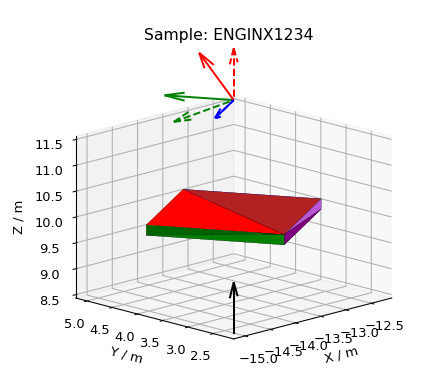
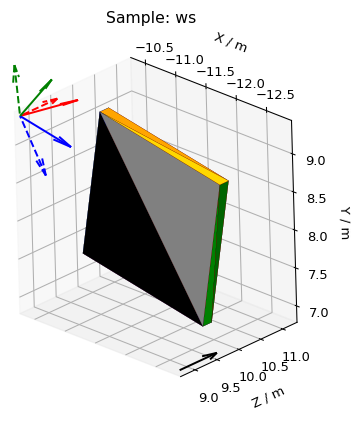
Set aspect like equal and set vertical_axis
fix SetSample::setSampleShape with environment only from algm Dialog

Changed region(s): [[0.0303, 0.0308, 0.9394, 0.9538], [0.3939, 0.8615, 0.4848, 0.9231], [0.9394, 0.4923, 0.9697, 0.5846]]

diff --git a/qt/python/mantidqt/mantidqt/plotting/sample_shape.py b/qt/python/mantidqt/mantidqt/plotting/sample_shape.py
@@ -14,6 +14,7 @@ from mpl_toolkits.mplot3d.art3d import Poly3DCollection
 from mantid.api import AnalysisDataService as ADS
 from mantidqt.plotting.sample_shape_ads_observer import SampleShapePlotADSObserver
 from workbench.plotting.globalfiguremanager import FigureAction, GlobalFigureManager
+from workbench.plotting.toolbar import ToolbarStateManager
 
 
 class SampleShapePlot:
@@ -24,6 +25,9 @@ class SampleShapePlot:
         self.workspace_name = None
         self.plot_visible = None
         self.GFM_plot_number = None
+        self.toolbar_manager = None
+        self.beam_direction = None
+        self.overall_limits = None
 
         self.Local_GlobalFigureManager = GlobalFigureManager
         # Register with CurrentFigure that we want to know of any
@@ -37,6 +41,9 @@ class SampleShapePlot:
         self.plot_visible = None
         self.GFM_plot_number = None
         self.Local_GlobalFigureManager = None
+        self.toolbar_manager = None
+        self.beam_direction = None
+        self.overall_limits = None
 
     def notify(self, action, plot_number):
         """
@@ -53,7 +60,7 @@ class SampleShapePlot:
         if action == FigureAction.VisibilityChanged:
             self.plot_visible = is_visible(plot_number)
 
-    def create_plot(self, workspace_name, figure=None):
+    def create_plot(self, workspace_name, figure=None, test=None):
         self.workspace_name = workspace_name
         workspace = ADS.retrieve(workspace_name)
         if not does_workspace_have_valid_sample_shape(workspace) and not workspace.sample().hasEnvironment():
@@ -70,7 +77,7 @@ class SampleShapePlot:
 
         add_title(sample_plotted, container_plotted, components_plotted, axes, workspace_name)
         set_axes_to_largest_mesh(axes, workspace)
-        set_perspective(axes)
+        self.beam_direction = set_perspective(axes, workspace=workspace)
         set_axes_labels(axes)
         add_beam_arrow(axes, workspace)
         if workspace.sample().hasOrientedLattice():
@@ -79,6 +86,9 @@ class SampleShapePlot:
         self.ads_observer = SampleShapePlotADSObserver(self.on_replace_workspace, self.on_rename_workspace,
                                                        self.on_clear, self.on_delete_workspace)
         self.set_and_save_figure(workspace_name, figure)
+        self.connect_to_home_toolbar_button()
+        if test:
+            return self
         return figure
 
     def set_and_save_figure(self, workspace_name, figure):
@@ -119,6 +129,18 @@ class SampleShapePlot:
         GlobalFigureManager.destroy_fig(self.figure)
         self.reset_class()
 
+    def connect_to_home_toolbar_button(self):
+        if self.figure.canvas.toolbar:
+            self.toolbar_manager = ToolbarStateManager(self.figure.canvas.toolbar)
+            self.toolbar_manager.home_button_connect(self.on_home_clicked)
+
+    def on_home_clicked(self):
+        current_axes = self.figure.gca()
+        if self.beam_direction:
+            set_perspective(current_axes, beam_direction=self.beam_direction)
+        current_axes.set_box_aspect((1, 1, 1))  # when upgraded to matplotlib 3.6 use current_axes.set_aspect('equal')
+        self.figure.canvas.draw()
+
 
 def is_visible(plot_number):
     """
@@ -145,9 +167,9 @@ def set_figure_window_title(plot_number, workspace_name):
         figure_manager.set_window_title(f"{workspace_name} Sample Shape")
 
 
-def plot_sample_container_and_components(workspace_name):
+def plot_sample_container_and_components(workspace_name, test=None):
     new_plot = SampleShapePlot()
-    return new_plot.create_plot(workspace_name)
+    return new_plot.create_plot(workspace_name, test=test)
 
 
 def try_to_plot_all_sample_shapes(workspace, figure):
@@ -287,8 +309,36 @@ def set_axes_labels(plot_axes):
     plot_axes.set_zlabel('Z / m')
 
 
-def set_perspective(plot_axes):
-    plot_axes.view_init(elev=15, azim=-135)
+def direction_not_valid(direction):
+    if not direction:
+        return True
+    if direction != "X" and direction != "Z":
+        return True
+    else:
+        return False
+
+
+def set_perspective(plot_axes, workspace=None, beam_direction=None):
+    # assume beam_direction Z (X) means pointingUp direction Y (Z)
+    if direction_not_valid(beam_direction) and not workspace:
+        # guess the original beam_direction and raise warning
+        plot_axes.view_init(vertical_axis='y', elev=30, azim=-135)
+        raise Exception("set_perspective must be called with either beam_direction or a workspace")
+
+    if direction_not_valid(beam_direction):
+        frame = workspace.getInstrument().getReferenceFrame()
+        if frame.pointingUpAxis() == "Y" and frame.pointingAlongBeamAxis() == "Z":
+            # almost all instruments have this instrument reference frame
+            beam_direction = "Z"
+        else:  # e.g. POLREF has beam along X, pointing up Z
+            beam_direction = "X"
+
+    if beam_direction == "Z":
+        plot_axes.view_init(vertical_axis='y', elev=30, azim=-135)
+    else:
+        plot_axes.view_init(vertical_axis='z', elev=30, azim=-135)
+
+    return beam_direction
 
 
 def call_set_mesh_axes_equal(axes, mesh):
@@ -299,6 +349,7 @@ def call_set_mesh_axes_equal(axes, mesh):
 def set_axes_to_largest_mesh(axes, workspace):
     overall_limits = overall_limits_for_all_meshes(workspace)
     call_set_mesh_axes_equal(axes, np.array(overall_limits))
+    axes.set_box_aspect((1, 1, 1))  # when upgraded to matplotlib 3.6 use axes.set_aspect('equal')
 
 
 def overall_limits_for_all_meshes(workspace, include_components=True):
@@ -382,7 +433,7 @@ def add_beam_arrow(plot_axes, workspace):
 def add_arrow(ax, vector, origin=None, factor=None, color='black', linestyle='-'):
     # Add arrows for Beam or Crystal lattice
     if origin is None:
-        origin = (ax.get_xlim3d()[1], ax.get_ylim3d()[1], ax.get_zlim3d()[1])
+        origin = (ax.get_xlim3d()[1], ax.get_ylim3d()[1], ax.get_zlim3d()[0])
     if factor is None:
         lims = ax.get_xlim3d()
         factor = (lims[1]-lims[0]) / 3.0

diff --git a/qt/python/mantidqt/mantidqt/plotting/test/test_sample_shape.py b/qt/python/mantidqt/mantidqt/plotting/test/test_sample_shape.py
@@ -89,6 +89,12 @@ def setup_workspace_sample_container_and_components_from_mesh():
     return workspace
 
 
+def setup_workspace_with_instrument_no_shape(instrument_name):
+    workspace = CreateWorkspace(OutputWorkspace="ws_shape", DataX=[1, 1], DataY=[2, 2])
+    LoadInstrument(Workspace=workspace, RewriteSpectraMap=True, InstrumentName=instrument_name)
+    return workspace
+
+
 class PlotSampleShapeTest(TestCase):
 
     @classmethod
@@ -283,7 +289,8 @@ class PlotSampleShapeTest(TestCase):
 
     def test_sample_and_container_invalid(self):
         workspace = CreateWorkspace(OutputWorkspace="ws_shape", DataX=[1, 1], DataY=[2, 2])
-        self.assertRaises(Exception, sample_shape.plot_sample_container_and_components, workspace.name())
+        self.assertRaisesRegex(Exception, "Workspace must have attached Sample Shape or Environment",
+                               sample_shape.plot_sample_container_and_components, workspace.name())
 
     # Sample, Container and Components
     def test_sample_container_and_components_valid(self):
@@ -386,7 +393,8 @@ class PlotSampleShapeTest(TestCase):
 
     def test_is_visible_for_invalid_plot_raises_value_error(self):
         self.set_up_global_figure_manager()
-        self.assertRaises(ValueError, sample_shape.is_visible, 0)
+        self.assertRaisesRegex(ValueError, "Error in is_visible, could not find a plot with the number",
+                               sample_shape.is_visible, 0)
 
     def test_set_window_title_valid_plot(self):
         self.set_up_global_figure_manager()
@@ -429,6 +437,44 @@ class PlotSampleShapeTest(TestCase):
         MySamplePlot = sample_shape.SampleShapePlot()
         MySamplePlot.notify(FigureAction.New, 200)
         self.assertEqual(200, MySamplePlot.GFM_plot_number)
+
+    def test_set_perspective_with_beam_direction(self):
+        mock_axes = Mock()
+        self.assertEqual("X", sample_shape.set_perspective(mock_axes, workspace=None, beam_direction="X"))
+        self.assertEqual("Z", sample_shape.set_perspective(mock_axes, workspace=None, beam_direction="Z"))
+
+    def test_set_perspective_raises_exception_with_no_workspace_or_valid_beam_direction(self):
+        mock_axes = Mock()
+        self.assertRaisesRegex(Exception, "set_perspective must be called with either beam_direction or a workspace",
+                               sample_shape.set_perspective, mock_axes, workspace=None, beam_direction=None)
+        self.assertRaisesRegex(Exception, "set_perspective must be called with either beam_direction or a workspace",
+                               sample_shape.set_perspective, mock_axes, workspace=None, beam_direction="Y")
+
+    def test_set_perspective_uses_input_beam_direction(self):
+        mock_axes = Mock()
+        workspace = setup_workspace_with_instrument_no_shape("Pearl")
+        self.assertEqual("X", sample_shape.set_perspective(mock_axes, workspace=workspace, beam_direction="X"))
+        self.assertEqual("Z", sample_shape.set_perspective(mock_axes, workspace=workspace, beam_direction="Z"))
+        workspace = setup_workspace_with_instrument_no_shape("Polref")
+        self.assertEqual("X", sample_shape.set_perspective(mock_axes, workspace=workspace, beam_direction="X"))
+        self.assertEqual("Z", sample_shape.set_perspective(mock_axes, workspace=workspace, beam_direction="Z"))
+
+    def test_set_perspective_with_workspace_and_no_valid_beam_direction(self):
+        mock_axes = Mock()
+        workspace = setup_workspace_with_instrument_no_shape("Pearl")
+        self.assertEqual("Z", sample_shape.set_perspective(mock_axes, workspace=workspace, beam_direction=None))
+        self.assertEqual("Z", sample_shape.set_perspective(mock_axes, workspace=workspace, beam_direction="Y"))
+        workspace = setup_workspace_with_instrument_no_shape("Polref")
+        self.assertEqual("X", sample_shape.set_perspective(mock_axes, workspace=workspace, beam_direction=None))
+        self.assertEqual("X", sample_shape.set_perspective(mock_axes, workspace=workspace, beam_direction="Y"))
+
+    @patch("mantidqt.plotting.sample_shape.set_perspective")
+    def test_home_toolbar_button_calls_set_perspective(self, mock_set_perspective):
+        workspace = setup_workspace_shape_from_mesh()
+        mock_set_perspective.return_value = "X"
+        sample_shape_plot_object = sample_shape.plot_sample_container_and_components(workspace.name(), test=True)
+        sample_shape_plot_object.on_home_clicked()
+        self.assertEqual({'beam_direction': 'X'}, mock_set_perspective.mock_calls[1][-1])
 
 
 if __name__ == '__main__':

diff --git a/Framework/DataHandling/src/SetSample.cpp b/Framework/DataHandling/src/SetSample.cpp
@@ -731,7 +731,7 @@ void SetSample::setSampleShape(API::ExperimentInfo &experiment, const Kernel::Pr
   */
 
   // Try known shapes or CSG first if supplied
-  if (args) {
+  if (isDictionaryPopulated(args)) {
     const auto refFrame = experiment.getInstrument()->getReferenceFrame();
     auto xml = tryCreateXMLFromArgsOnly(*args, *refFrame);
     if (!xml.empty()) {
@@ -751,7 +751,7 @@ void SetSample::setSampleShape(API::ExperimentInfo &experiment, const Kernel::Pr
     const auto &can = sampleEnv->getContainer();
     if (sampleEnv->getContainer().hasCustomizableSampleShape()) {
       Container::ShapeArgs shapeArgs;
-      if (args) {
+      if (isDictionaryPopulated(args)) {
         const auto &props = args->getProperties();
         for (const auto &prop : props) {
           // assume in cm
@@ -769,7 +769,7 @@ void SetSample::setSampleShape(API::ExperimentInfo &experiment, const Kernel::Pr
       }
       experiment.mutableSample().setShape(shapeObject);
     } else if (sampleEnv->getContainer().hasFixedSampleShape()) {
-      if (args) {
+      if (isDictionaryPopulated(args)) {
         throw std::runtime_error("The can has a fixed sample shape that cannot "
                                  "be adjusted using the Geometry parameter.");
       }
@@ -787,7 +787,7 @@ void SetSample::setSampleShape(API::ExperimentInfo &experiment, const Kernel::Pr
 
       experiment.mutableSample().setShape(shapeObject);
     } else {
-      if (args) {
+      if (isDictionaryPopulated(args)) {
         throw std::runtime_error("Cannot override the sample shape because the "
                                  "environment definition does not define a "
                                  "default sample shape. Please either provide "

diff --git a/docs/source/plotting/MeshPlotHelp.rst b/docs/source/plotting/MeshPlotHelp.rst
@@ -30,8 +30,10 @@ Workbench
 
 To quickly plot all Sample, Container and Component shapes attached to a workspace, right-click on it
 in the Workspaces Toolbox and select ``Show Sample Shape``. A black arrow will be added for the beam direction
-and, if there is a UB matrix, colored arrows for the real (solid line) and reciprocal (dashed line) lattice vectors,
-where h, k and l are represented by red, green and blue arrows, respectively.
+and, if there is a UB matrix, colored arrows for lattice vectors.
+The real lattice vectors :math:`a,\ b,\ c` are represented by **solid** line arrows in red, green and blue, respectively.
+Similarly, the reciprocal lattice vectors :math:`a^*,\ b^*,\ c^*`
+are represented by **dashed** line arrows in red, green and blue, respectively.
 
 A sample shape plot also takes into account any goniometer rotations.
 
